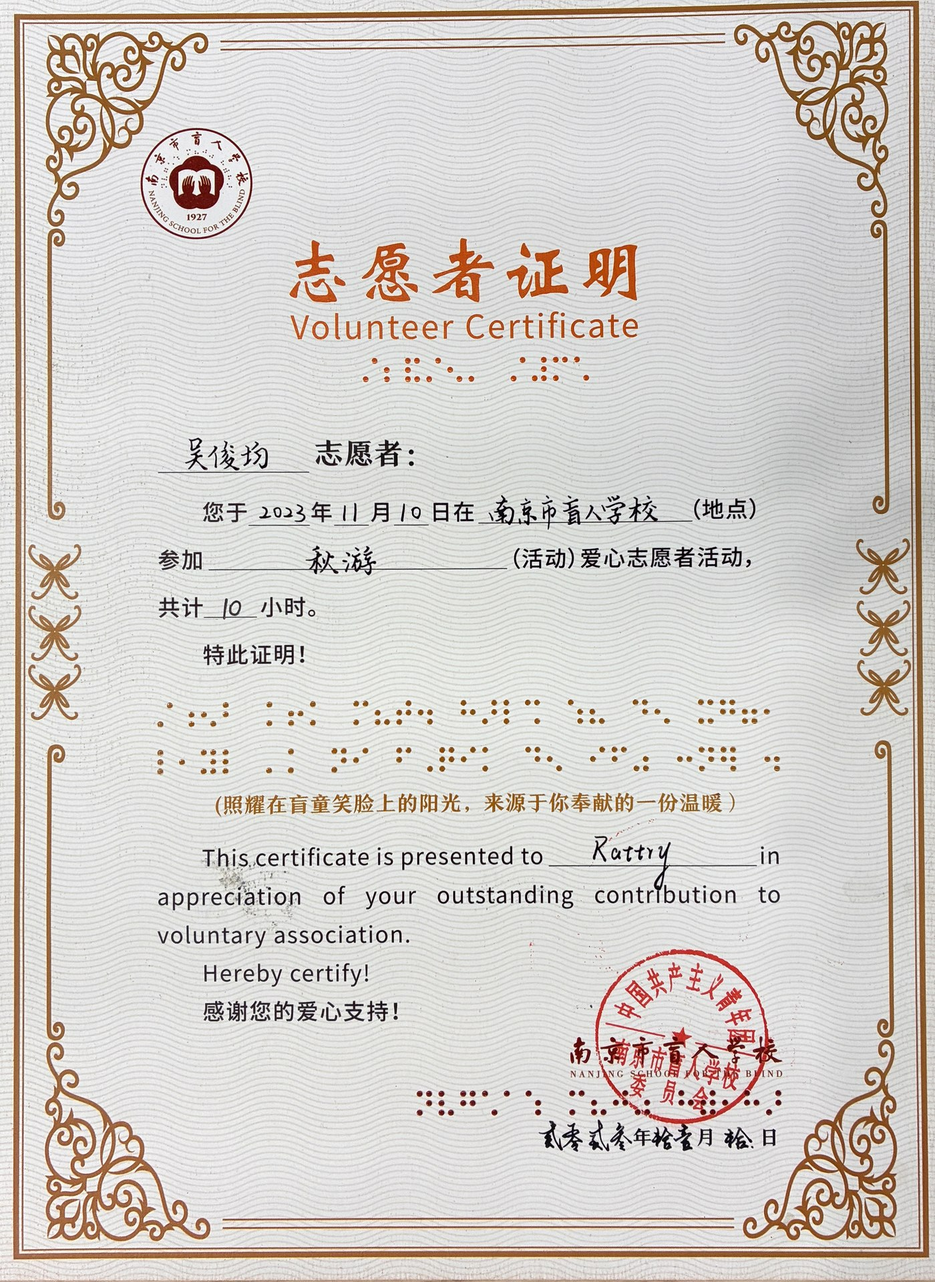
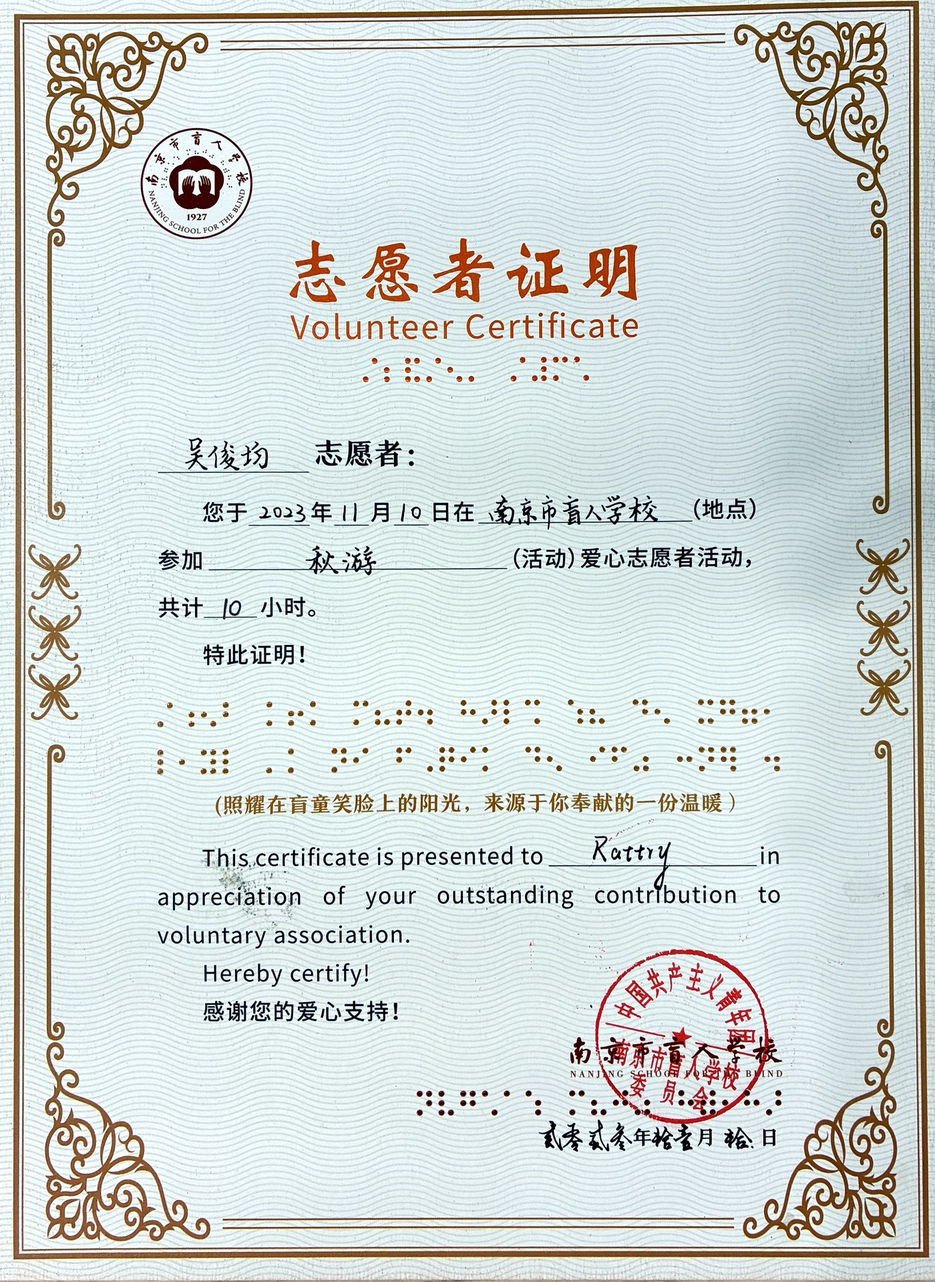
Certificates get privacy like group photos (owner); blind-school cert re-exported noticeably brighter (autocontrast, luma 213) with ?v=2 image cache-bust; bump v=20261115g

diff --git a/js/data.js b/js/data.js
@@ -142,7 +142,7 @@ window.SITE = {
         { file: "fig-8.jpg", at: 3, en: "A land-air ‘Transformer’ aircraft on the fair floor.", de: "Ein Land-Luft-‚Transformer‘-Fluggerät auf der Messe." },
         { file: "fig-10.jpg", at: 5, privacy: true, en: "The volunteer table between shifts.", de: "Der Freiwilligentisch zwischen den Schichten." },
         { file: "fig-11.jpg", at: 5, privacy: true, en: "With the volunteer team and new acquaintances from the stands.", de: "Mit dem Freiwilligenteam und neuen Bekannten von den Ständen." },
-        { file: "fig-12.jpg", at: 5, center: true, ratio: "1400/1980", en: "The volunteer certificate, issued by Messe Stuttgart.", de: "Das Freiwilligenzertifikat der Messe Stuttgart." }
+        { file: "fig-12.jpg", at: 5, privacy: true, center: true, ratio: "1400/1980", en: "The volunteer certificate, issued by Messe Stuttgart.", de: "Das Freiwilligenzertifikat der Messe Stuttgart." }
       ],
       en: {
         title: "Volunteer in 2026 Innovation Fair, Nanjing",
@@ -359,7 +359,7 @@ window.SITE = {
         { file: "fig-5.jpg", ratio: "1200/811", en: "A student at a desk beside stacks of braille books.", de: "Ein Schüler am Tisch neben Stapeln von Braille-Büchern." },
         { file: "fig-6.jpg", ratio: "1200/810", en: "Faces around a table in the half-dark.", de: "Gesichter um einen Tisch im Halbdunkel." },
         { file: "fig-7.jpg", ratio: "1200/794", en: "Small things passed around a table.", de: "Kleine Dinge, die am Tisch herumgereicht werden." },
-        { file: "fig-8.jpg", center: true, ratio: "1400/1920", en: "The volunteer certificate — ten hours at the autumn outing, issued by Nanjing School for the Blind.", de: "Das Freiwilligenzertifikat — zehn Stunden beim Herbstausflug, ausgestellt von der Nanjing School for the Blind." }
+        { file: "fig-8.jpg?v=2", privacy: true, center: true, ratio: "1400/1920", en: "The volunteer certificate — ten hours at the autumn outing, issued by Nanjing School for the Blind.", de: "Das Freiwilligenzertifikat — zehn Stunden beim Herbstausflug, ausgestellt von der Nanjing School for the Blind." }
       ],
       en: {
         title: "Volunteer in Nanjing School for the Blind",

diff --git a/index.html b/index.html
@@ -25,7 +25,7 @@
 <!-- GT Walsheim via Adobe Fonts: after adding the family at fonts.adobe.com,
      paste your kit link here, e.g. <link rel="stylesheet" href="https://use.typekit.net/XXXXXXX.css"> -->
 <link rel="stylesheet" href="css/fonts.css">
-<link rel="stylesheet" href="css/site.css?v=20261115f">
+<link rel="stylesheet" href="css/site.css?v=20261115g">
 </head>
 <body>
 
@@ -98,7 +98,7 @@
 </footer>
 
 <script src="assets/visitors.js?v=20261114" defer></script>
-<script src="js/data.js?v=20261115f" defer></script>
-<script src="js/app.js?v=20261115f" defer></script>
+<script src="js/data.js?v=20261115g" defer></script>
+<script src="js/app.js?v=20261115g" defer></script>
 </body>
 </html>

diff --git a/story.html b/story.html
@@ -24,7 +24,7 @@
 <script>document.documentElement.classList.add("js");</script>
 <!-- GT Walsheim via Adobe Fonts: paste your kit link here as well -->
 <link rel="stylesheet" href="css/fonts.css">
-<link rel="stylesheet" href="css/site.css?v=20261115f">
+<link rel="stylesheet" href="css/site.css?v=20261115g">
 <script>
   (function () {
     var slug = new URLSearchParams(location.search).get("slug");
@@ -100,7 +100,7 @@
   </div>
 </noscript>
 
-<script src="js/data.js?v=20261115f" defer></script>
-<script src="js/app.js?v=20261115f" defer></script>
+<script src="js/data.js?v=20261115g" defer></script>
+<script src="js/app.js?v=20261115g" defer></script>
 </body>
 </html>
